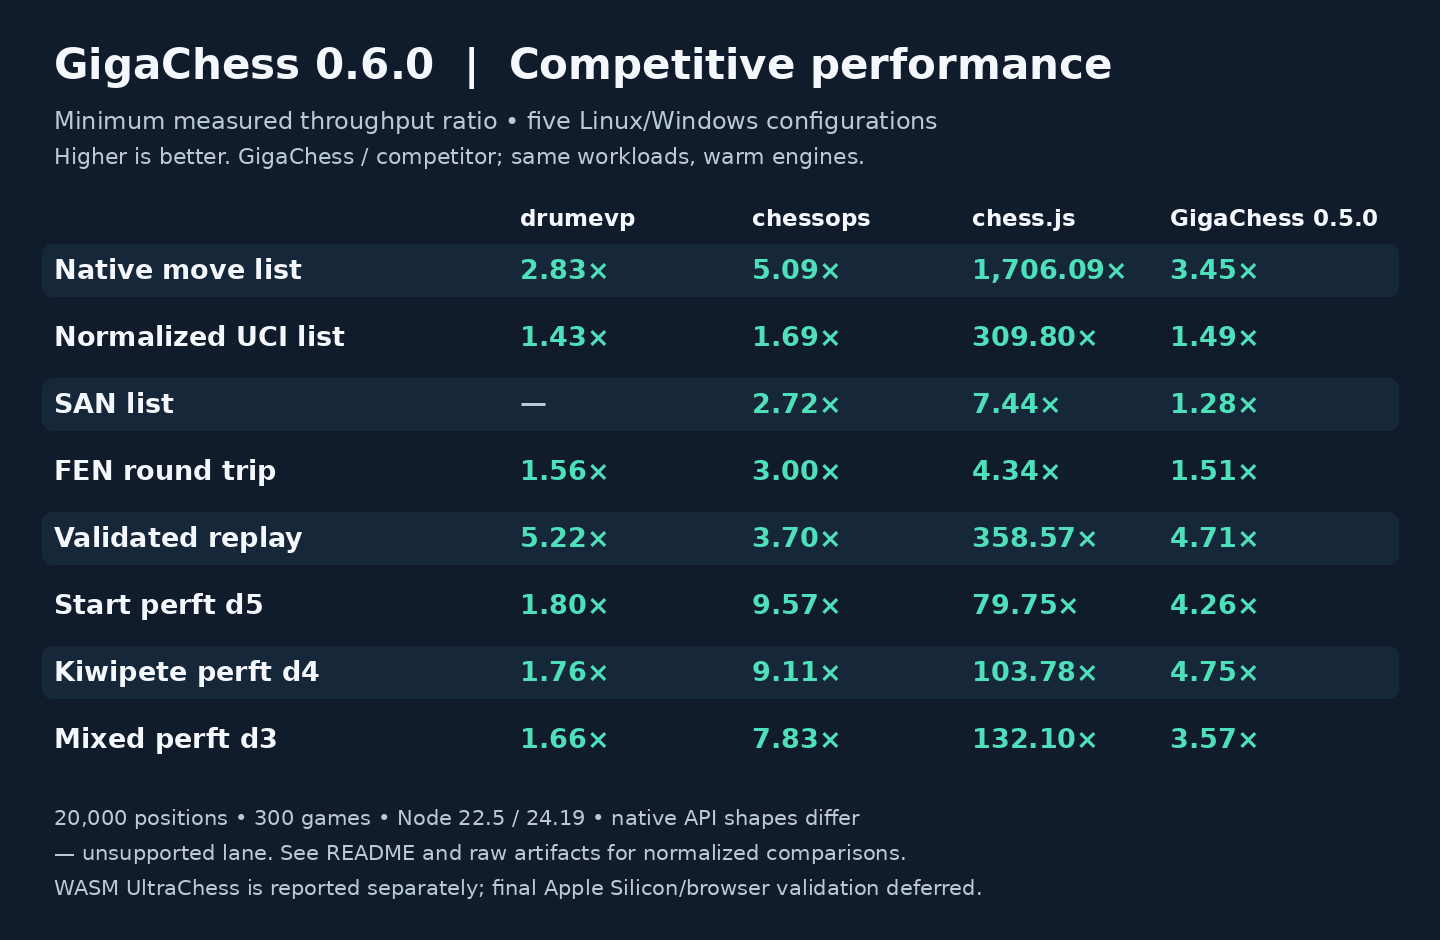
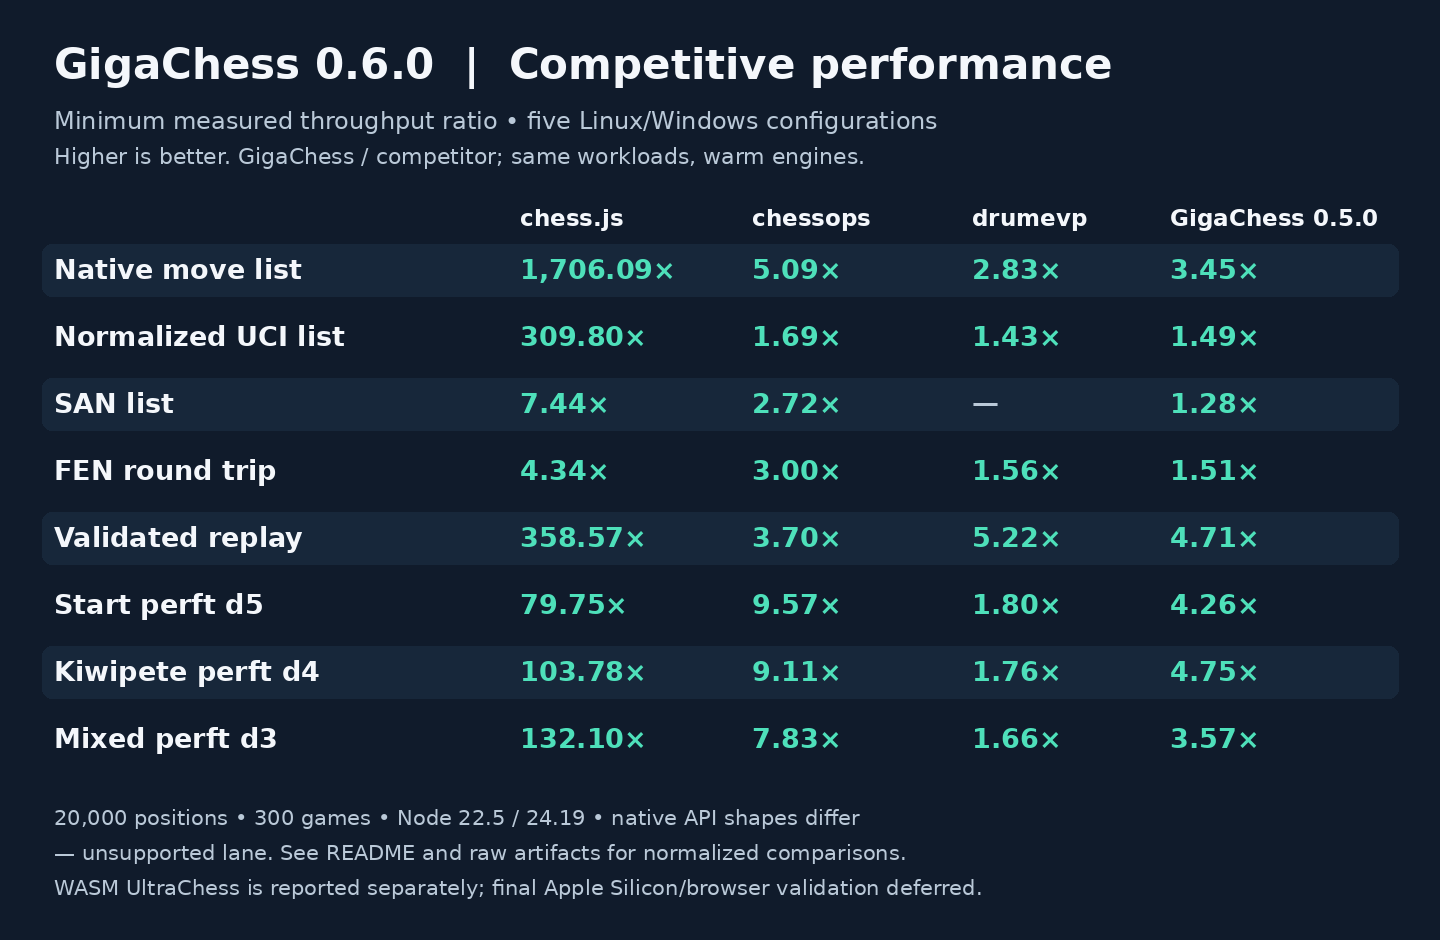
Lead with benchmark-proven pure JavaScript speed and familiar chess libraries

diff --git a/bench/render-release-graphics.py b/bench/render-release-graphics.py
@@ -16,7 +16,7 @@ im,d=canvas((1440,940))
 txt(d,(54,40),'GigaChess 0.6.0  |  Competitive performance',42,b=True)
 txt(d,(54,106),'Minimum measured throughput ratio • five Linux/Windows configurations',24,subtle)
 txt(d,(54,143),'Higher is better. GigaChess / competitor; same workloads, warm engines.',22,subtle)
-cols=[('drumevp','drumevp-published'),('chessops','chessops'),('chess.js','chess.js'),('GigaChess 0.5.0','gigachess-npm-0.5.0')]
+cols=[('chess.js','chess.js'),('chessops','chessops'),('drumevp','drumevp-published'),('GigaChess 0.5.0','gigachess-npm-0.5.0')]
 xs=[520,752,972,1170]
 for x,(label,_) in zip(xs,cols):txt(d,(x,204),label,23,b=True)
 lanes=[('Native move list','fresh-native-move-list'),('Normalized UCI list','fresh-normalized-uci-list'),('SAN list','fresh-SAN-list'),('FEN round trip','fen-parse-write'),('Validated replay','validated-uci-replay'),('Start perft d5','start-d5'),('Kiwipete perft d4','kiwipete-d4'),('Mixed perft d3','mixed-perft-d3')]
@@ -49,13 +49,13 @@ im,d=canvas((1280,720))
 logo=Image.open(ROOT/'assets/logo.png').convert('RGBA');logo.thumbnail((340,340))
 im.paste(logo,(880,80),logo)
 txt(d,(60,48),'GigaChess',70,b=True)
-txt(d,(64,135),'0.6.0  •  Pure TypeScript',35,accent,b=True)
-txt(d,(64,211),'2.33–3.73×',72,accent,b=True)
-txt(d,(68,300),'faster than drumevp in direct movegen',30,b=True)
-txt(d,(68,355),'10 benchmark lanes won vs tested pure-JS engines',28)
-txt(d,(68,405),'Chess960  •  16-bit moves  •  SAN / FEN / PGN',25,subtle)
-d.line((64,470,1216,470),fill=rule,width=2)
-txt(d,(68,498),'No WASM or runtime dependencies',35,b=True)
-txt(d,(68,553),'Five Linux / Windows Node.js configurations',25,subtle)
-txt(d,(68,600),'MIT  •  npm install gigachess  •  Reproducible benchmarks',24,subtle)
+txt(d,(64,135),'The fastest in our pure-JS benchmarks',32,accent,b=True)
+txt(d,(64,205),'164×',76,accent,b=True)
+txt(d,(68,293),'mixed perft vs chess.js (up to)',28,b=True)
+txt(d,(64,345),'13×',70,accent,b=True)
+txt(d,(68,427),'start perft vs chessops (up to)',28,b=True)
+d.line((64,485,1216,485),fill=rule,width=2)
+txt(d,(68,510),'Pure TypeScript. Zero runtime dependencies. No WASM.',29,b=True)
+txt(d,(68,567),'10 benchmark lanes won • Five Linux / Windows configurations',24,subtle)
+txt(d,(68,615),'MIT  •  Chess960  •  npm install gigachess',25,subtle)
 im.save(ROOT/'assets/social-preview.png',optimize=True)

diff --git a/README.md b/README.md
@@ -5,9 +5,9 @@
 <h1 align="center">GigaChess</h1>
 
 <p align="center">
-  <strong>A correctness-tested, high-performance pure TypeScript chess rules library.</strong>
-  <br>Pure JS/TS, no Rust or WebAssembly in the runtime. Perft and game-replay benchmarks are tracked separately.<br>
-  Built for high-performance web applications, interactive chessboards, and analysis engines.
+  <strong>The fastest pure JavaScript/TypeScript chess library in our benchmarks.</strong>
+  <br>Up to 164× the perft throughput of chess.js and 13× that of chessops.<br>
+  Full chess rules. Zero runtime dependencies. No WebAssembly.
 </p>
 
 <p align="center">
@@ -20,14 +20,29 @@
 
 ---
 
-## Highlights
+## Built to be the fastest
 
-- **2.33–3.73× faster direct legal move generation than drumevp 1.3.2** across five tested Linux/Windows configurations.
-- Wins all ten supported real-game benchmark lanes against the tested external pure-JS competitors.
-- Zero runtime dependencies, no native binaries or WASM. Synchronous move generation before optional table loading.
-- Standard chess and Chess960, compact 16-bit moves, checked replay, FEN/SAN/UCI, PGN and study trees.
-- Incremental Polyglot-compatible Zobrist hashing and FIDE repetition keys.
-- MIT license; compatibility entry points for chess.js and chessops.
+GigaChess 0.6.0 leads every supported pure-JS workload in our independent
+Linux and Windows benchmark matrix, including move generation, notation,
+FEN, game replay and perft. It is built for chess applications, interactive
+boards, analysis tools and high-throughput game databases.
+
+| Benchmark | vs chess.js | vs chessops |
+|---|---:|---:|
+| Mixed-position perft | **132–164×** | **7.8–9.9×** |
+| Starting-position perft (depth 5) | **80–104×** | **9.6–13.4×** |
+| SAN move lists | **7.4–8.1×** | **2.7–3.1×** |
+| FEN round trip | **4.3–6.3×** | **3.0–3.8×** |
+
+Throughput ratios across five tested Node.js configurations; higher is better.
+Perft measures legal move-tree traversal, not AI search strength.
+[Full results, all competitors and methodology](#performance-comparisons-060).
+
+- **Pure TypeScript, zero runtime dependencies:** no WASM, native binaries or compilation step to begin playing.
+- **Complete chess rules:** standard chess, Chess960, SAN, UCI, FEN, PGN and annotated study trees.
+- **Developer-friendly:** familiar chess.js and chessops compatibility entry points, plus a high-throughput stateful Board API.
+- **Compact and correct:** independent packed 16-bit moves, checked replay, incremental Polyglot hashes, FIDE repetition keys and reversible moves.
+- **MIT licensed:** use in open-source or commercial projects.
 
 ### Optimized pure-JavaScript Board
 
@@ -81,30 +96,29 @@ console.log(board.toFen());    // startpos restored
 
 ![GigaChess benchmark comparison](./assets/benchmark-comparison.png)
 
-Minimum GigaChess throughput advantage over each competitor across five Linux/Windows Node.js configurations. See the [full benchmark report](docs/BENCHMARKS.md) for ranges, source drumevp, the exact workload, pinned versions and raw measurements.
+Minimum GigaChess throughput advantage over each competitor across five Linux/Windows Node.js configurations. The strongest tested pure-JS competitor, drumevp, is also included: GigaChess is 2.33–3.73× faster in the separate direct move-generation comparison. See the [full benchmark report](docs/BENCHMARKS.md) for ranges, exact workloads, pinned versions and raw measurements.
 
-| Workload | drumevp 1.3.2 | chessops 0.15.1 | chess.js 1.4.0 | GigaChess 0.5.0 |
-|---|---:|---:|---:|---:|
-| Native move list | 2.83× | 5.09× | 1,706.09× | 3.45× |
-| Normalized UCI list | 1.43× | 1.69× | 309.80× | 1.49× |
-| SAN list | — | 2.72× | 7.44× | 1.28× |
-| FEN round trip | 1.56× | 3.00× | 4.34× | 1.51× |
-| Validated UCI replay | 5.22× | 3.70× | 358.57× | 4.71× |
-| Start perft d5 | 1.80× | 9.57× | 79.75× | 4.26× |
-| Kiwipete perft d4 | 1.76× | 9.11× | 103.78× | 4.75× |
-| Endgame perft d5 | 1.35× | 7.60× | 45.86× | 4.79× |
-| Promotion perft d4 | 1.64× | 8.71× | 90.96× | 4.39× |
-| Mixed perft d3 | 1.66× | 7.83× | 132.10× | 3.57× |
+| Workload | chess.js 1.4.0 | chessops 0.15.1 | drumevp 1.3.2 | drumevp source | GigaChess 0.5.0 |
+|---|---:|---:|---:|---:|---:|
+| Native move list | 1,706.09× | 5.09× | 2.83× | 2.79× | 3.45× |
+| Normalized UCI list | 309.80× | 1.69× | 1.43× | 1.35× | 1.49× |
+| SAN list | 7.44× | 2.72× | — | — | 1.28× |
+| FEN round trip | 4.34× | 3.00× | 1.56× | — | 1.51× |
+| Validated UCI replay | 358.57× | 3.70× | 5.22× | — | 4.71× |
+| Start perft d5 | 79.75× | 9.57× | 1.80× | 1.81× | 4.26× |
+| Kiwipete perft d4 | 103.78× | 9.11× | 1.76× | 1.75× | 4.75× |
+| Endgame perft d5 | 45.86× | 7.60× | 1.35× | 1.37× | 4.79× |
+| Promotion perft d4 | 90.96× | 8.71× | 1.64× | 1.65× | 4.39× |
+| Mixed perft d3 | 132.10× | 7.83× | 1.66× | 1.63× | 3.57× |
 
 The native list workload uses each library's public return type (chess.js produces verbose move objects); normalized UCI and SAN are separate. — means unsupported/not measured. 20,000 positions, 300 validated games, exact move-set and SAN parity. Final Apple Silicon/browser performance remains unverified.
 
-### UltraChess: warm Rust/WASM vs first-use latency
+### WebAssembly comparison
 
-UltraChess 1.4.0 is faster in warm perft and move-list workloads; GigaChess is faster in validated UCI replay on these runs. WASM is not part of the pure-JS ranking. GigaChess can generate legal moves synchronously before table loading, with no WASM compile/instantiation step.
-
-![First-use latency, local Node 24.19](./assets/cold-start.png)
-
-On one Linux x64 host, median import-to-first-list latency was **16.9 ms** for GigaChess with synchronous fallback, **80.9 ms** with sliding/hash tables ready, and **592.0 ms** for UltraChess default WASM (599.8 ms inline). 15 fresh processes per entry, process launch excluded; not a universal startup claim. [Warm WASM results, methodology and samples](docs/BENCHMARKS.md).
+UltraChess (Rust/WASM) is a separate runtime category, not part of the
+pure-JS ranking. Its warm perft throughput is higher, while GigaChess leads
+validated replay and offers synchronous first-use without WASM initialization.
+See the [separate warm and cold-start comparisons](docs/BENCHMARKS.md#ultrachess-rustwebassembly-separate-category).
 
 ---
 
